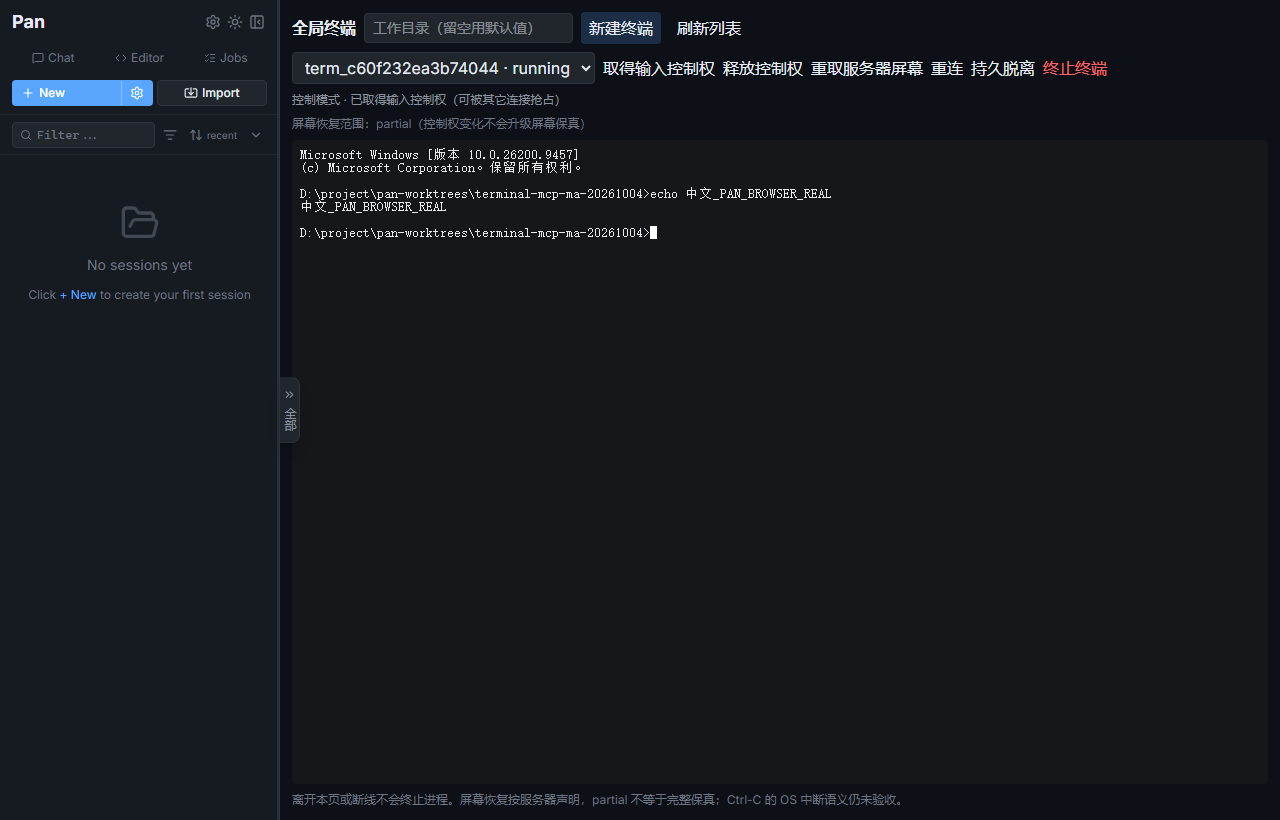
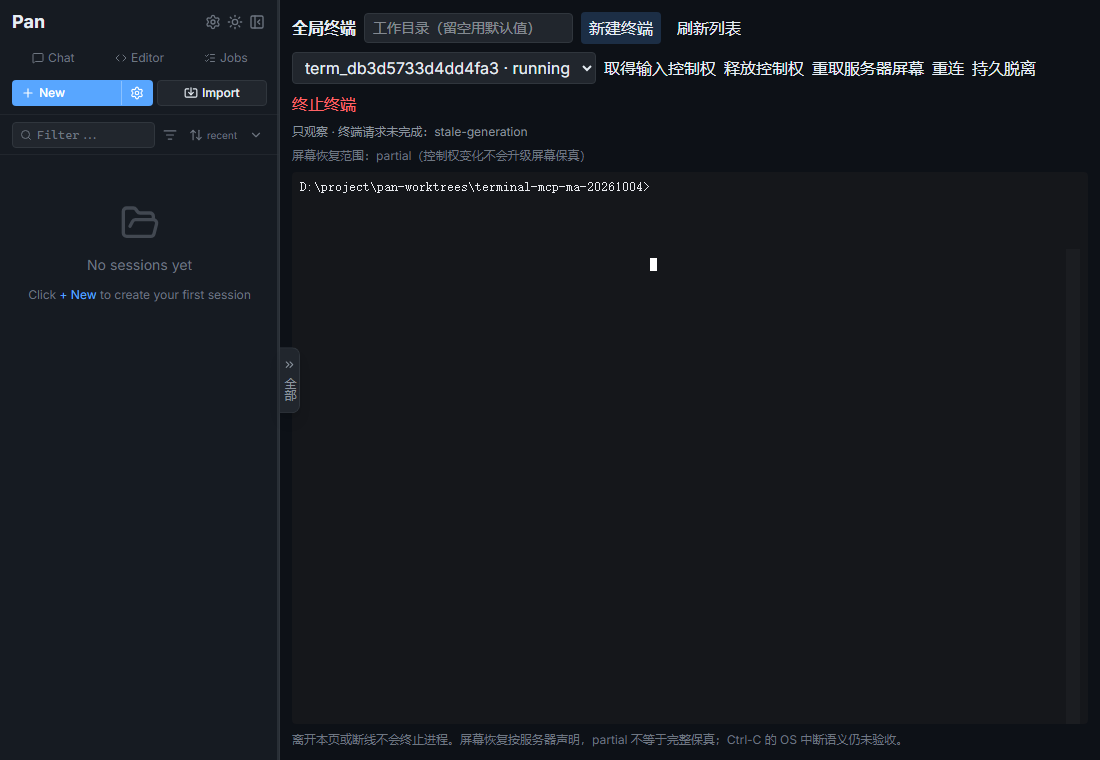
test(terminal): verify browser takeover resize and disconnect lifecycle

diff --git a/audit/terminal/implementation/browser/harness.py b/audit/terminal/implementation/browser/harness.py
@@ -27,11 +27,11 @@ async def lifespan(app):
     runtime = terminal_api.build_runtime(env={}, platform=sys.platform, host="127.0.0.1", port=args.port,
                                          service_factory=lambda: service, shutdown_budget=20)
     await terminal_api.start_runtime(app, runtime=runtime)
-    async with terminal_ws.websocket_lifespan(app, runtime=runtime):
-        try:
+    try:
+        async with terminal_ws.websocket_lifespan(app, runtime=runtime):
             yield
-        finally:
-            await terminal_api.stop_runtime(app, runtime=runtime)
+    finally:
+        await terminal_api.stop_runtime(app, runtime=runtime)
 
 
 app = FastAPI(lifespan=lifespan)

diff --git a/audit/terminal/implementation/browser/README.md b/audit/terminal/implementation/browser/README.md
@@ -43,3 +43,15 @@ Pan services and ports are untouched. No main/practical advance or deployment.
 
 Reproduce: build `packages/web`, install sidecar exact-pinned dependencies, then
 run `node audit/terminal/implementation/browser/check.mjs <python-executable>`.
+
+## Additional browser ownership stage
+
+The real Chromium check now also opens a second connection to the same terminal,
+claims control there, and verifies the first connection's stale input is rejected
+with stale-generation and its UI returns to observer mode. Closing the second tab
+leaves the terminal running (real GET positive control). A viewport change produces
+a resize-result. Reload recovery and explicit close still pass afterwards.
+`result.json` records all three additional assertions and harnessExit=0.
+Harness lifecycle ordering now closes WS before the REST service, matching the
+production nesting. An initial Playwright setup error (implicit single-page context)
+was fixed by using an explicit context; it was not a product defect.
